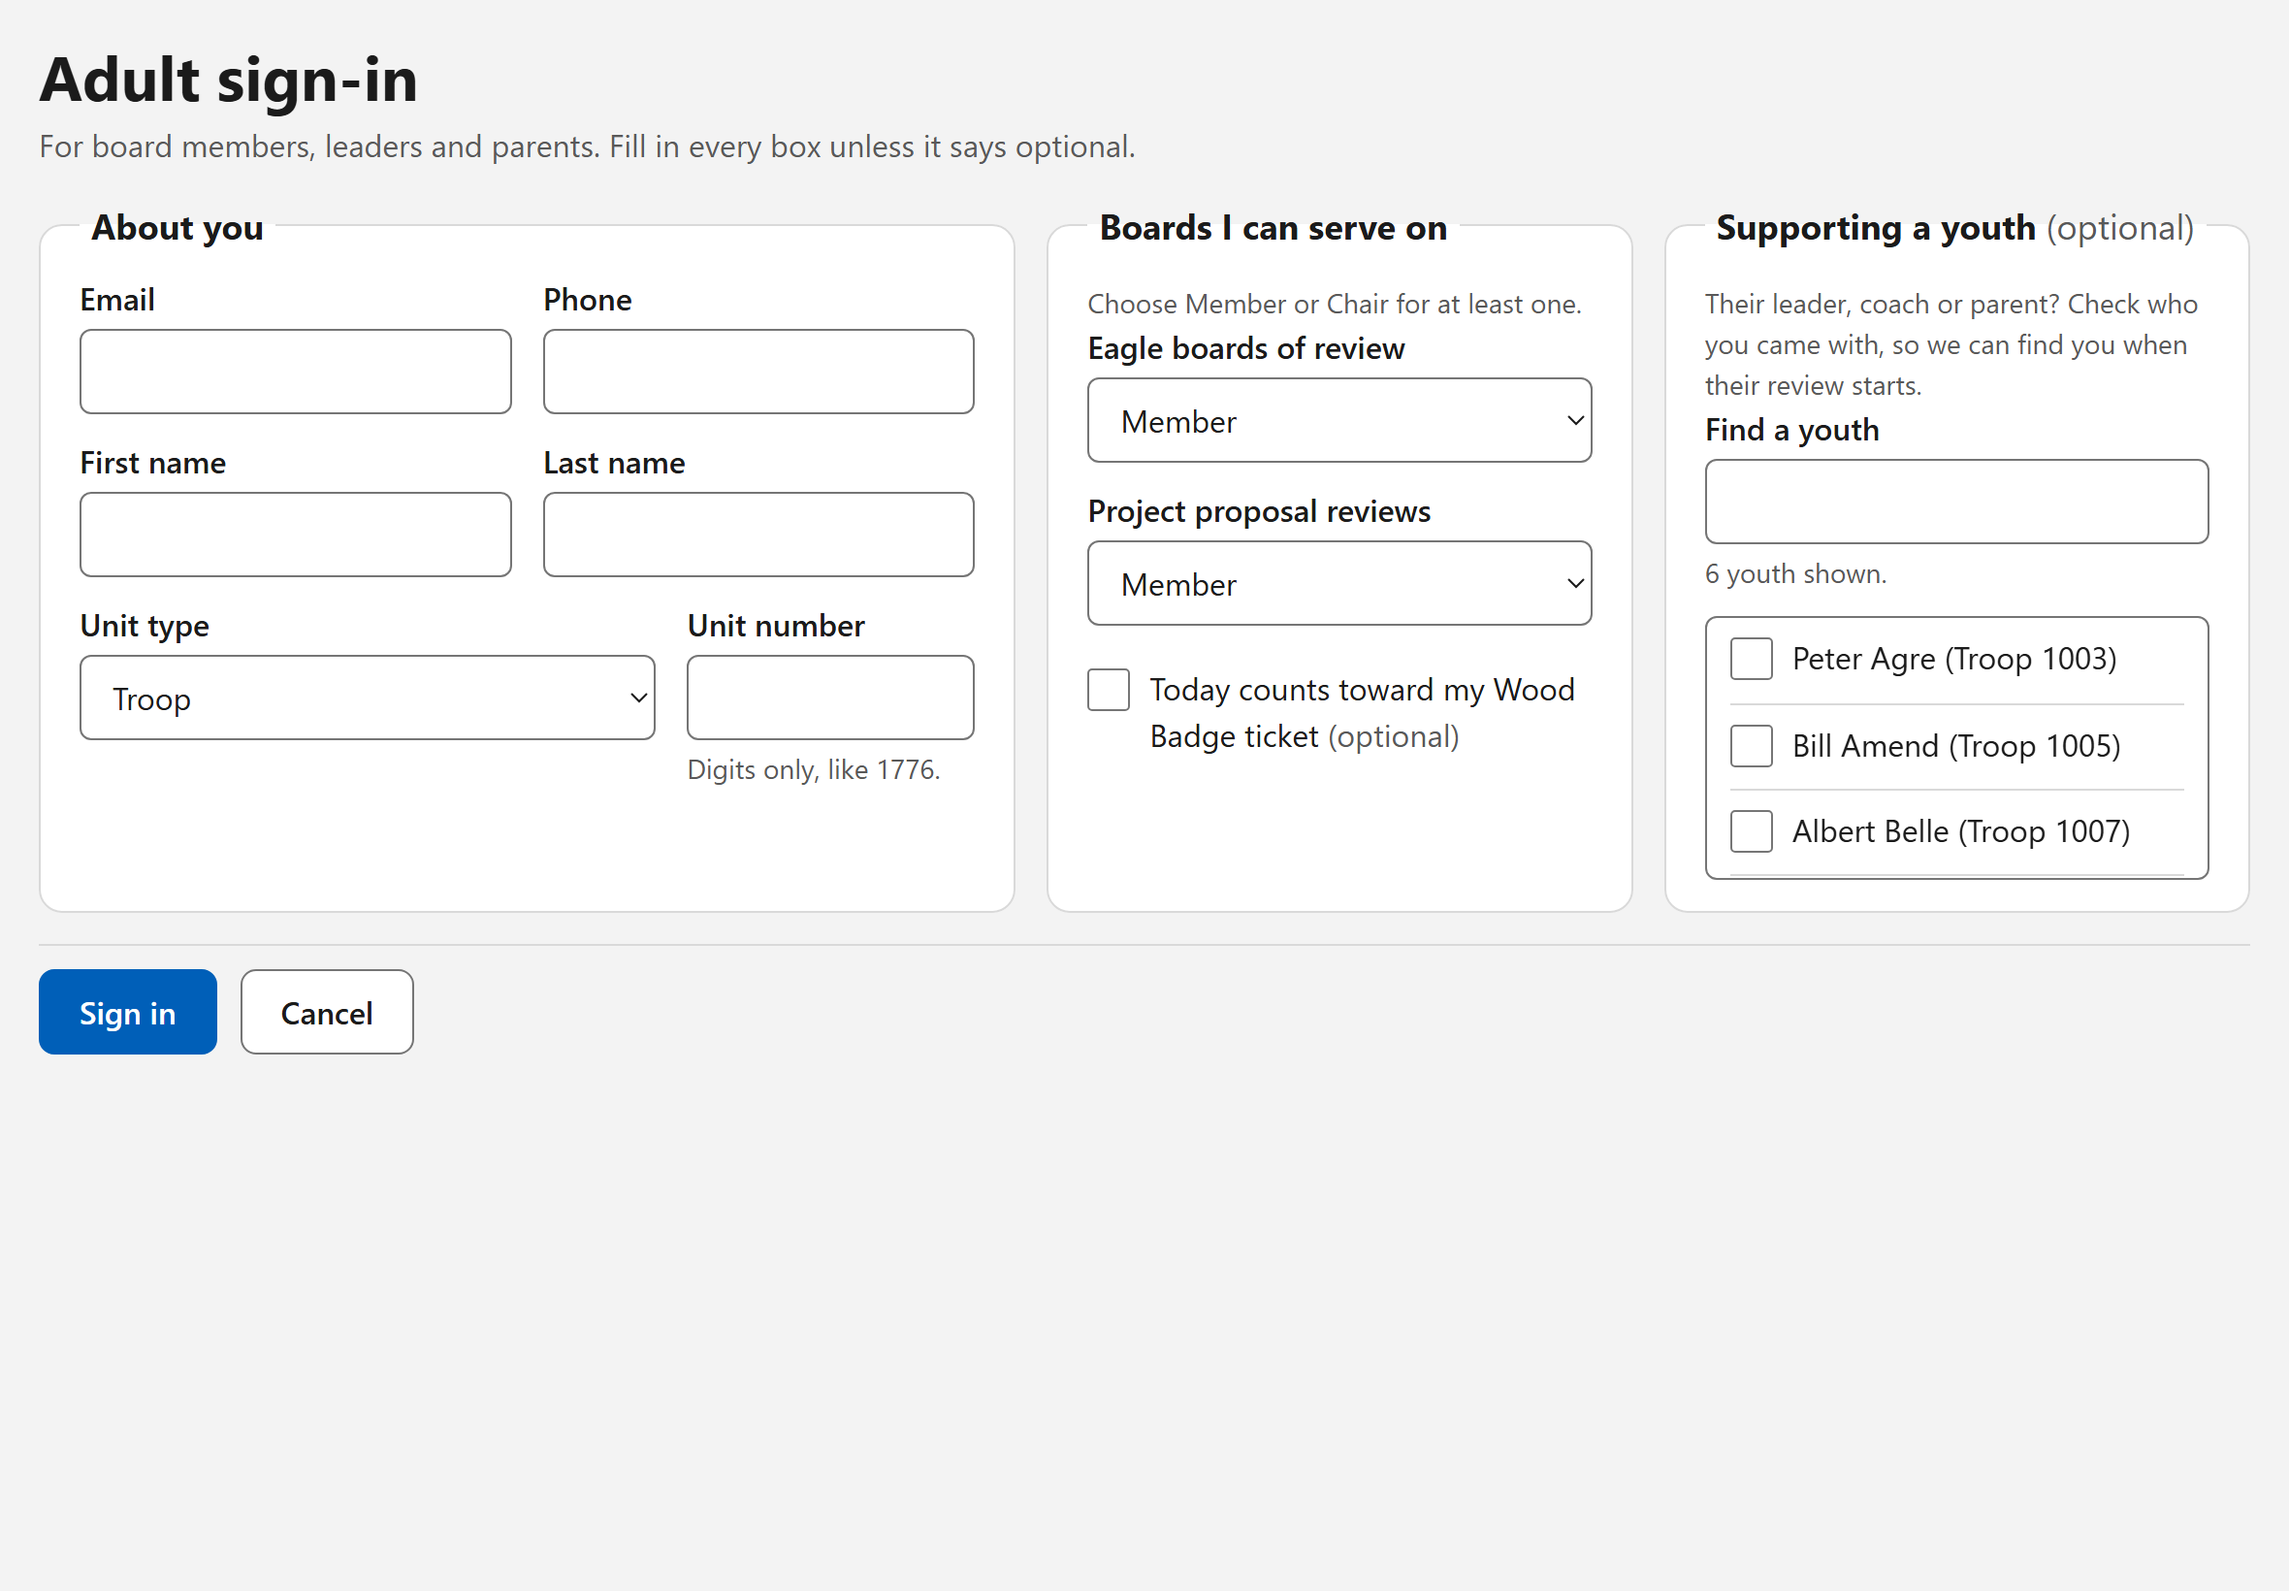
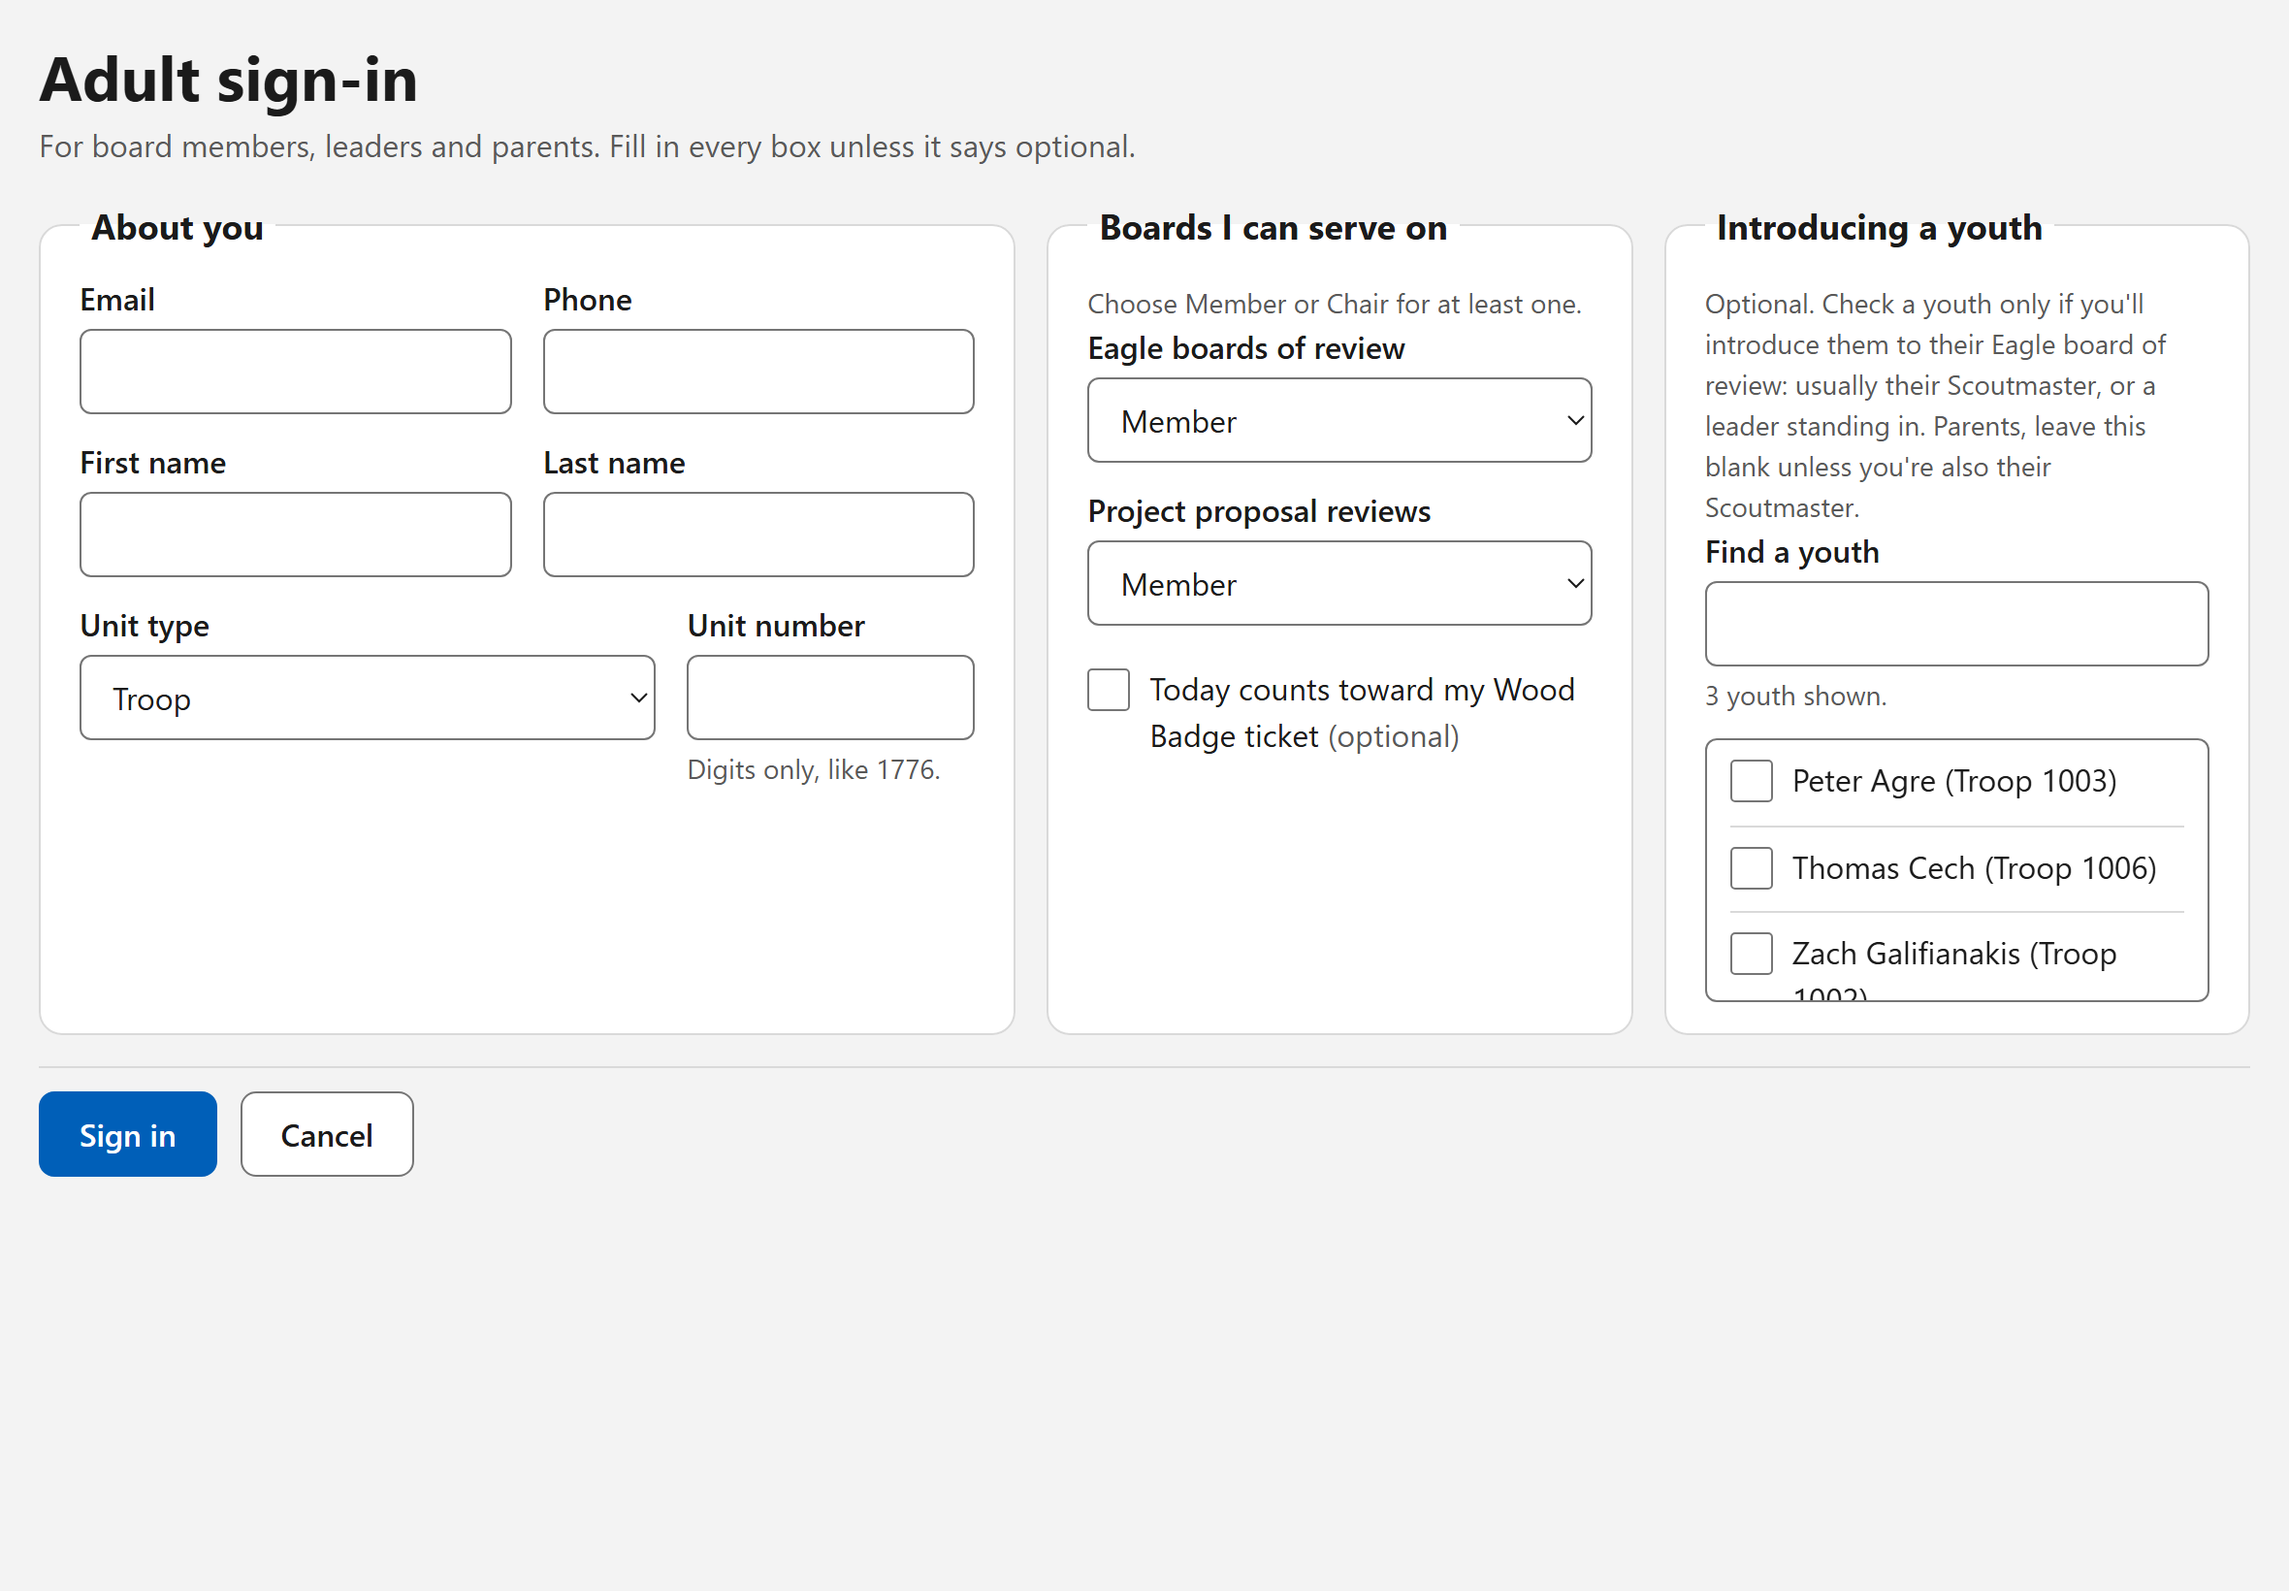
A new picture of the adult sign-in form: the list is for an Eagle board of review
The youth it lists no longer include anyone here for a project proposal, and
its hint says so. Shot from the Windows version's snapshot tool against the
demo event; the pages are the shared check-in pages at 5873365.

diff --git a/README.md b/README.md
@@ -107,7 +107,7 @@ introduce to their Eagle board of review, so you can find them when that
 youth's review starts. Adults who have served before are recognized by email and the form
 fills itself in.
 
-![The adult sign-in form: email, phone, name and unit; Member or Chair for Eagle boards of review and for project proposal reviews; a Wood Badge checkbox; and an optional list of youth they'll introduce to their board](docs/images/adult.png)
+![The adult sign-in form: email, phone, name and unit; Member or Chair for Eagle boards of review and for project proposal reviews; a Wood Badge checkbox; and an optional list of the youth here for an Eagle board of review, to check the ones they'll introduce](docs/images/adult.png)
 
 Each youth appears in the **Youth** list on the Event page the moment they sign
 in, numbered `P1, P2…` if they reserved and `W1, W2…` if they walked in. The
